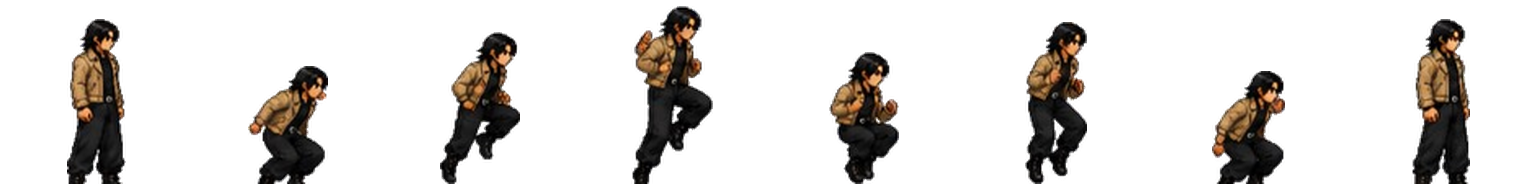
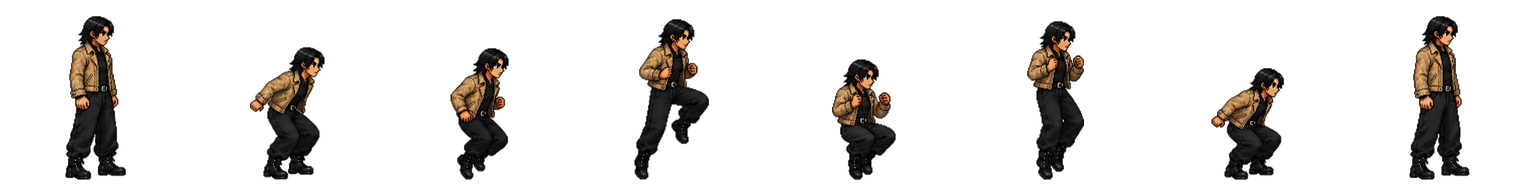
DEV068 replace Akky jump animation

diff --git a/docs/index.html b/docs/index.html
@@ -111,7 +111,7 @@ body {
 
 		<script src="index.js"></script>
 		<script>
-const GODOT_CONFIG = {"args":[],"canvasResizePolicy":2,"emscriptenPoolSize":8,"ensureCrossOriginIsolationHeaders":true,"executable":"index","experimentalVK":false,"fileSizes":{"index.pck":10642756,"index.wasm":39509339},"focusCanvas":true,"gdextensionLibs":[],"godotPoolSize":4};
+const GODOT_CONFIG = {"args":[],"canvasResizePolicy":2,"emscriptenPoolSize":8,"ensureCrossOriginIsolationHeaders":true,"executable":"index","experimentalVK":false,"fileSizes":{"index.pck":10624308,"index.wasm":39509339},"focusCanvas":true,"gdextensionLibs":[],"godotPoolSize":4};
 const GODOT_THREADS_ENABLED = false;
 const engine = new Engine(GODOT_CONFIG);
 